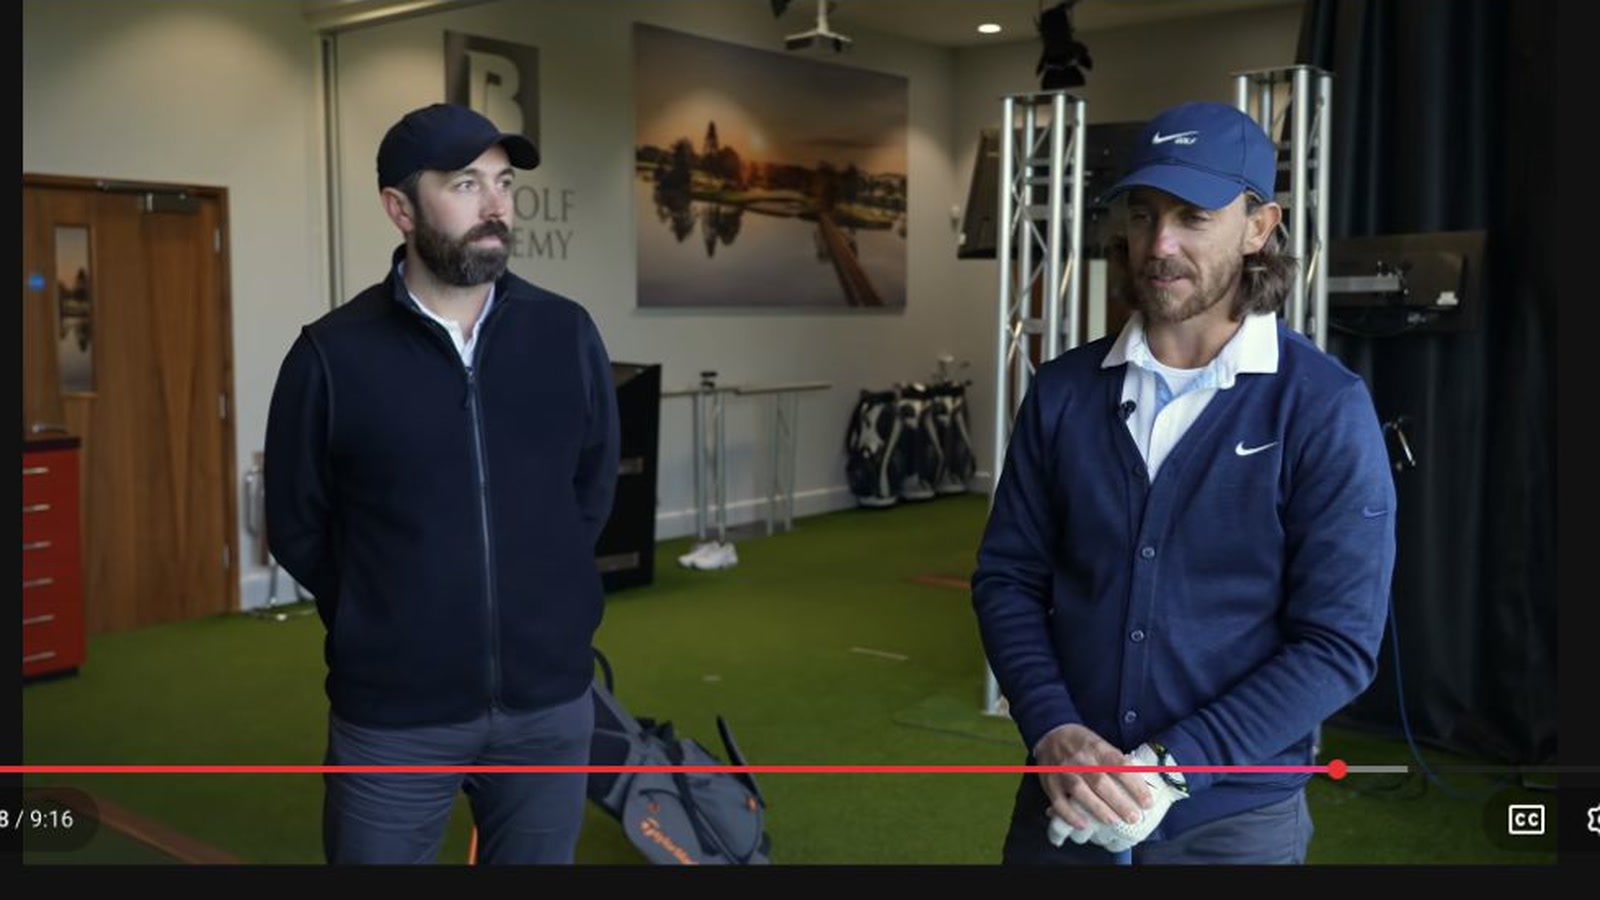
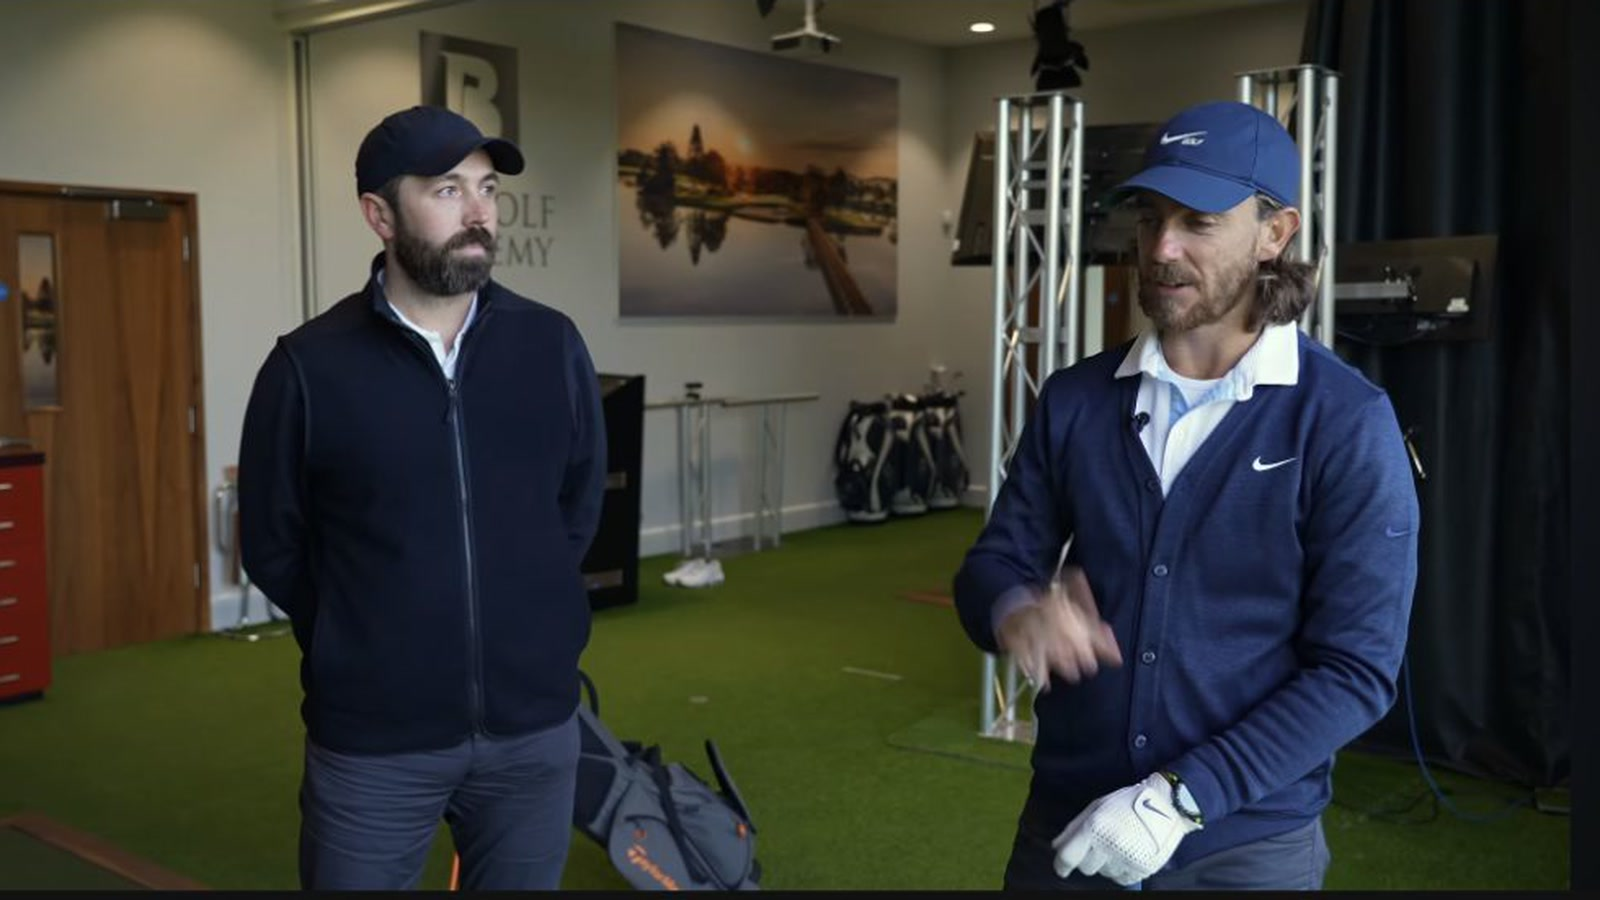
Replace YouTube UI captures with clean video frames

diff --git a/reading/2026-11-13-tommy-fleetwood-five-tour-pro-tips-en.html b/reading/2026-11-13-tommy-fleetwood-five-tour-pro-tips-en.html
@@ -49,7 +49,7 @@
           <div class="meta"><span>9:16 video</span><span>Rick Shiels Golf · Tommy Fleetwood</span><span>Published December 23, 2021</span><span>Summary run: November 13, 2026 · 09:30 ICT</span></div>
         </div>
         <figure class="hero-card">
-          <img src="images/2026-11-13-tommy-fleetwood-five-tour-tips/chip-shot-description.jpg" alt="Tommy Fleetwood identifying where a chip should land before playing the shot" />
+          <img src="images/2026-11-13-tommy-fleetwood-five-tour-tips/chip-shot-description.jpg?v=20261113-clean" alt="Tommy Fleetwood identifying where a chip should land before playing the shot" />
           <figcaption>Fleetwood starts the chip by choosing its landing point and expected break. The swing becomes the last step in a plan he can describe before he moves the club.</figcaption>
         </figure>
       </header>
@@ -95,7 +95,7 @@
             <p>Fleetwood starts with the physical difference between driver and the rest of the bag. The ball is teed up, so the player can meet it while the clubhead is travelling upward. Many amateurs keep the same downward intention they use for an iron. In Fleetwood's explanation, that delivery adds spin and often produces a weak cut.</p>
             <p>His setup cue is simple. Move the ball forward, let the trail foot sit a little farther back, and keep the head behind the ball. He then places a second tee in the ground ahead of the ball. The task is to strike the ball and let the driver travel above the forward tee. A player who chops steeply downward is more likely to hit it.</p>
             <figure class="visual">
-              <img src="images/2026-11-13-tommy-fleetwood-five-tour-tips/driver-forward-tee-drill.jpg" alt="Fleetwood demonstrating the driver setup with his head behind the teed ball" />
+              <img src="images/2026-11-13-tommy-fleetwood-five-tour-tips/driver-forward-tee-drill.jpg?v=20261113-clean" alt="Fleetwood demonstrating the driver setup with his head behind the teed ball" />
               <figcaption><a href="https://www.youtube.com/watch?v=conDZKAqpA4&t=95s">1:35</a> · Fleetwood sets his head behind the ball before showing the forward-tee constraint. The cue is visible and testable, which makes it easier to repeat than a long list of body positions.</figcaption>
             </figure>
             <p>The drill is useful because it changes the task rather than asking the player to manufacture a launch-monitor number. It still needs feedback. A very upward strike can create a new problem if contact moves low on the face or the path and face no longer match. Spray the face, watch the start line, and compare carry and curvature before keeping the change.</p>
@@ -107,7 +107,7 @@
             <p>The iron lesson reverses the driver intention. Fleetwood wants the club to reach the ball before the turf. The loft already supplies height. Trying to help the ball upward often leaves pressure on the trail foot and moves the bottom of the swing behind the ball, producing fat and thin contact.</p>
             <p>Fleetwood exaggerates the correction. He lifts the lead foot during the backswing, then stamps it down as the downswing begins. The motion shifts pressure toward the target and gives the body somewhere to rotate. He can then strike down through the ball and take the divot after impact.</p>
             <figure class="visual">
-              <img src="images/2026-11-13-tommy-fleetwood-five-tour-tips/iron-pressure-step.jpg" alt="Fleetwood stepping pressure onto his lead foot during the iron drill" />
+              <img src="images/2026-11-13-tommy-fleetwood-five-tour-tips/iron-pressure-step.jpg?v=20261113-clean" alt="Fleetwood stepping pressure onto his lead foot during the iron drill" />
               <figcaption><a href="https://www.youtube.com/watch?v=conDZKAqpA4&t=220s">3:40</a> · The step is an exaggeration, not a pose to freeze at impact. It gives the player a clear sequence: load, plant, then move through the shot.</figcaption>
             </figure>
             <p>Contact tells you whether the exercise worked. Mark the ball position on a grass range or use a line on a mat. The strike should occur at the ball and the low point should appear beyond it. If the player simply lunges toward the target, the drill has lost its purpose. Pressure should move forward while the chest continues turning.</p>
@@ -119,7 +119,7 @@
             <p>Fleetwood's chipping advice begins away from the ball. He reads the slope, checks the lie, chooses a club, identifies a landing point, and predicts the release. In the filmed example he uses a 52-degree wedge, lands the ball just onto the green, and expects it to move from right to left.</p>
             <p>He describes the motion as a putt with loft. The phrase connects an unfamiliar little wedge shot to a familiar putting action. More importantly, it gives the shot one positive picture. The alternative is a pile of warnings about what must not happen, which leaves the player with no useful target.</p>
             <figure class="visual">
-              <img src="images/2026-11-13-tommy-fleetwood-five-tour-tips/chip-shot-description.jpg" alt="Fleetwood pointing to the landing point for a low chip with a 52 degree wedge" />
+              <img src="images/2026-11-13-tommy-fleetwood-five-tour-tips/chip-shot-description.jpg?v=20261113-clean" alt="Fleetwood pointing to the landing point for a low chip with a 52 degree wedge" />
               <figcaption><a href="https://www.youtube.com/watch?v=conDZKAqpA4&t=275s">4:35</a> · The landing point links club choice to green speed and slope. A successful chip can then be reviewed as a plan, not only as a final distance from the hole.</figcaption>
             </figure>
             <ol class="sequence">
@@ -137,7 +137,7 @@
             <p>Tour players know more than a single stock distance. They can shorten a swing, reduce speed, or choose another flight. Fleetwood asks amateurs to start with something even more basic: measure what the club actually does across several shots.</p>
             <p>A player may call an 8-iron a 164-yard club because one perfect strike once travelled that far. The next group of shots might carry 142, 149, and 153. Those numbers are not failures to hide. They describe the club the player takes to the course. A front bunker or water carry should be planned against the reliable part of that range, not the best result in memory.</p>
             <figure class="visual">
-              <img src="images/2026-11-13-tommy-fleetwood-five-tour-tips/distance-range.jpg" alt="Fleetwood explaining how several measured shots define a useful club distance range" />
+              <img src="images/2026-11-13-tommy-fleetwood-five-tour-tips/distance-range.jpg?v=20261113-clean" alt="Fleetwood explaining how several measured shots define a useful club distance range" />
               <figcaption><a href="https://www.youtube.com/watch?v=conDZKAqpA4&t=340s">5:40</a> · Record several carries with the same club and normal intent. The distribution is more useful than the longest shot.</figcaption>
             </figure>
             <p>Fleetwood also makes the scoring geometry concrete. A ball finishing 40 feet short and another finishing 40 feet long are 80 feet apart. Reaching pin-high more often narrows that error before direction is considered. This is why under-clubbing costs more than a single missed green suggests.</p>
@@ -149,7 +149,7 @@
             <p>The distance lesson becomes a risk lesson when water or a bunker guards the green. Fleetwood says tour players will take more club when the required carry sits at the edge of the expected number. They do not need to prove they can hit the shorter club perfectly.</p>
             <p>For an amateur, the same idea starts with honest carry data. Total distance is misleading when the ball must clear an obstacle. Build a small note for each club with typical carry, a softer carry, and the shortest result you still see often enough to matter. On the course, compare the hazard number with that range before looking at the flag.</p>
             <figure class="visual">
-              <img src="images/2026-11-13-tommy-fleetwood-five-tour-tips/club-up-risk.jpg" alt="Fleetwood explaining why a player should take enough club to cover a forced carry" />
+              <img src="images/2026-11-13-tommy-fleetwood-five-tour-tips/club-up-risk.jpg?v=20261113-clean" alt="Fleetwood explaining why a player should take enough club to cover a forced carry" />
               <figcaption><a href="https://www.youtube.com/watch?v=conDZKAqpA4&t=430s">7:10</a> · Clubbing up is a probability choice. The objective is to remove the forced carry from the shot's fragile edge.</figcaption>
             </figure>
             <div class="callout"><p><strong>A practical range session.</strong> Hit eight normal shots with one club. Remove obvious mishits only if you would also treat them as unusual on the course. Record carry, strike location, and curve. Use the middle group as the stock range and the shorter recurring outcomes when planning a forced carry.</p></div>
@@ -161,7 +161,7 @@
             <p>Fleetwood reviews the round after he plays. He looks at what worked, what failed, and what should change before the next start. That analysis has a purpose: it should produce the next practice task. Replaying every mistake without choosing an action only extends the frustration.</p>
             <p>He finishes with a second exercise. Recall the three best shots of the day. The point is not forced optimism. Golf makes failures unusually memorable, and those memories can distort how the player evaluates the whole round. Three specific successes preserve evidence of what the swing and decisions could already produce.</p>
             <figure class="visual">
-              <img src="images/2026-11-13-tommy-fleetwood-five-tour-tips/post-round-review.jpg" alt="Fleetwood and Rick Shiels discussing a balanced post-round review" />
+              <img src="images/2026-11-13-tommy-fleetwood-five-tour-tips/post-round-review.jpg?v=20261113-clean" alt="Fleetwood and Rick Shiels discussing a balanced post-round review" />
               <figcaption><a href="https://www.youtube.com/watch?v=conDZKAqpA4&t=510s">8:30</a> · Fleetwood's review has two outputs: one thing to improve and three good shots to remember.</figcaption>
             </figure>
             <p>A useful note can be four lines long: the shot that cost the most, the likely cause, the next drill, and the three best shots. This keeps practice connected to the course while preventing one bad hole from becoming the story of the entire day.</p>

diff --git a/reading/index.html b/reading/index.html
@@ -162,7 +162,7 @@
           "source": "Rick Shiels Golf · Tommy Fleetwood",
           "sourceCount": 1,
           "videoId": "conDZKAqpA4",
-          "imageUrl": "images/2026-11-13-tommy-fleetwood-five-tour-tips/chip-shot-description.jpg",
+          "imageUrl": "images/2026-11-13-tommy-fleetwood-five-tour-tips/chip-shot-description.jpg?v=20261113-clean",
           "watchUrl": "https://www.youtube.com/watch?v=conDZKAqpA4",
           "pages": [
             {
